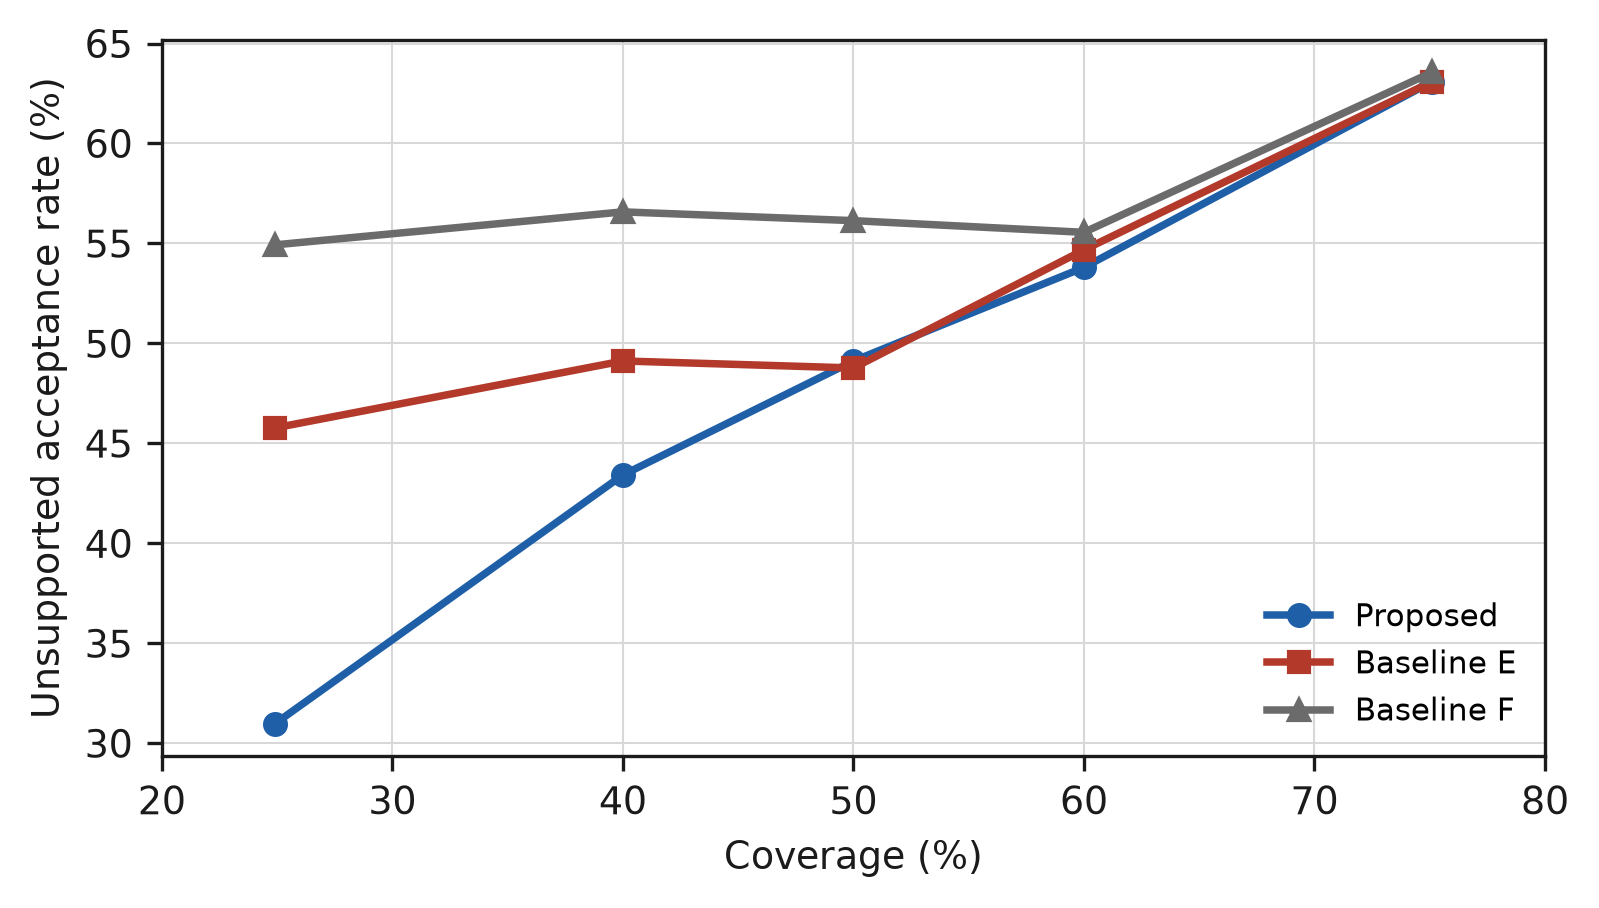
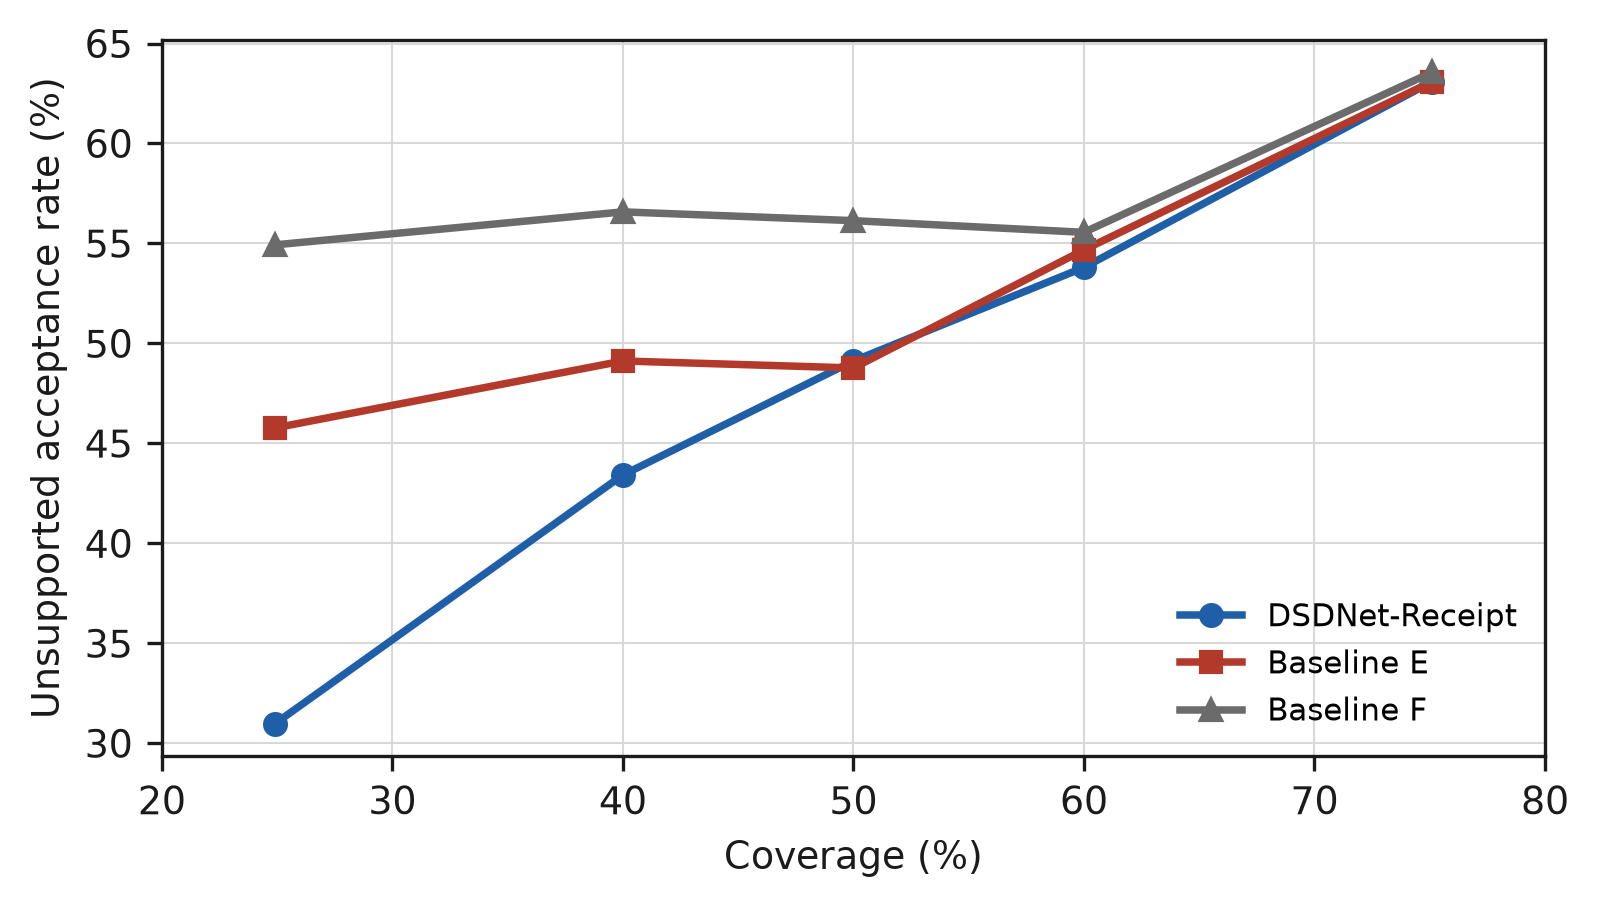
Name the method in the matched-coverage legend
The figure legend read "Proposed" while the manuscript, every table and the
title name the method DSDNet-Receipt, so the reader had to map a generic
label onto a named system.

The figure was regenerated from the archived report.json. fig1_reliability.png
reproduced byte-identically, which confirms the change touched only the label;
the SHA256SUMS entries for fig2_matched_coverage.png and for the plotting
script were updated accordingly, and all 138 entries verify.

Changed region(s): [[0.7355, 0.6476, 0.95, 0.7401], [0.7355, 0.7709, 0.95, 0.8018]]

diff --git a/scripts/rq2_rq3_figures_20261120.py b/scripts/rq2_rq3_figures_20261120.py
@@ -76,7 +76,10 @@ def main() -> None:
     points = report["variants"]["pre"]["matched_coverage"]
     xs = [p["coverage"] * 100 for p in points]
     fig, ax = plt.subplots(figsize=(5.4, 3.1))
-    for key, label, colour, marker in (("P", "Proposed", C_PRO, "o"),
+    # The legend carries the method name used in the manuscript. A generic
+    # "Proposed" label forces the reader to map figure to method, so the label
+    # is the pipeline name itself.
+    for key, label, colour, marker in (("P", "DSDNet-Receipt", C_PRO, "o"),
                                        ("E", "Baseline E", C_E, "s"),
                                        ("F", "Baseline F", C_F, "^")):
         ys = [p[f"uar_{key}"] * 100 for p in points]
